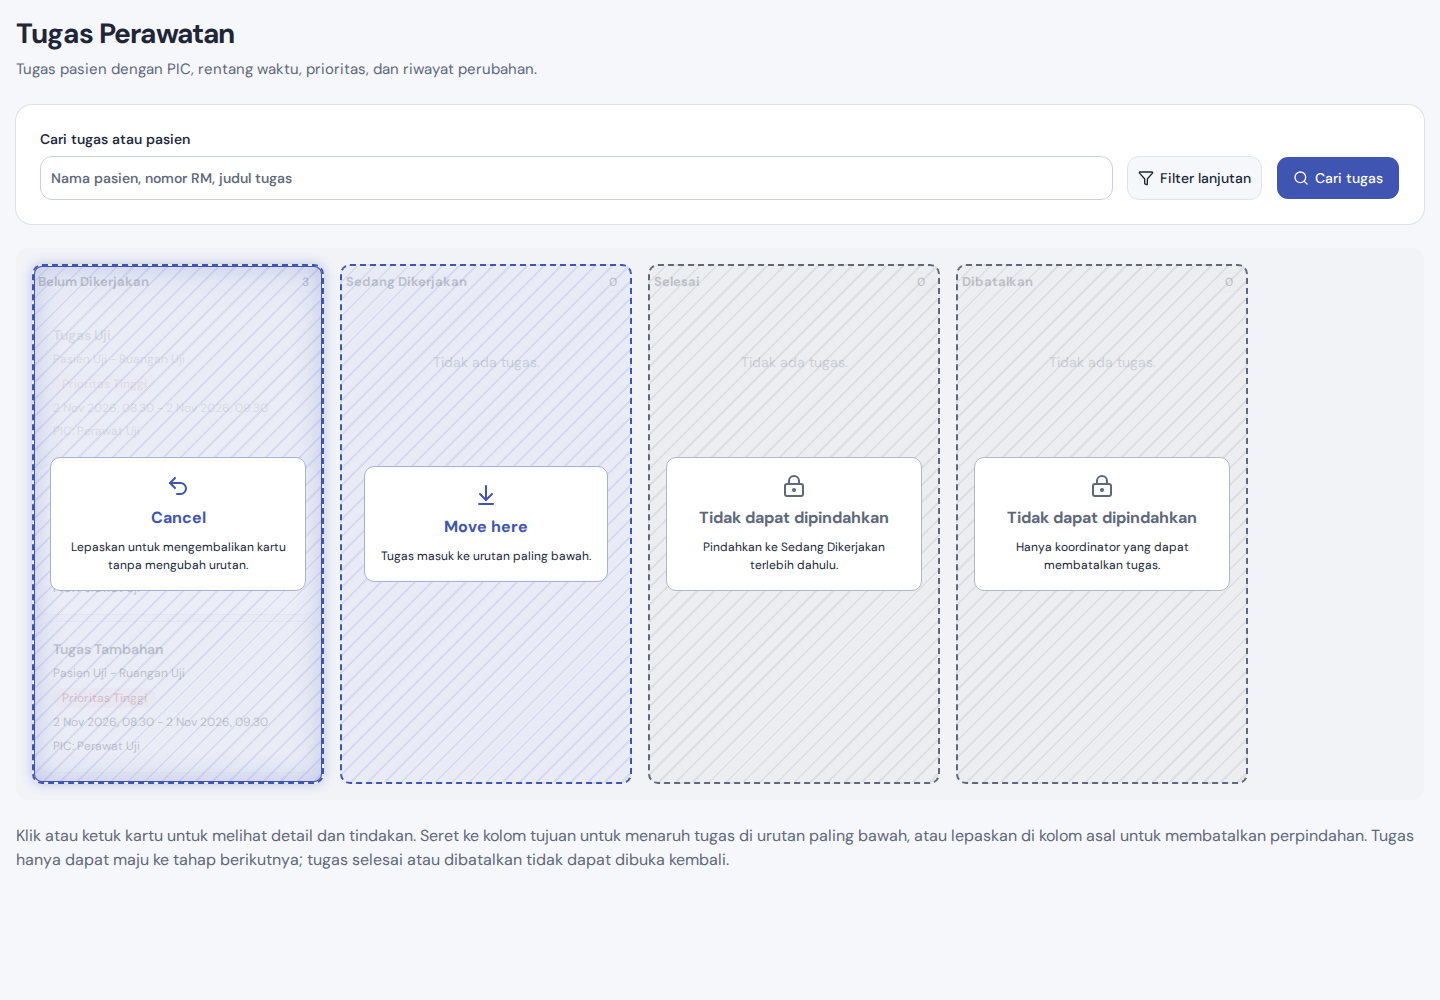
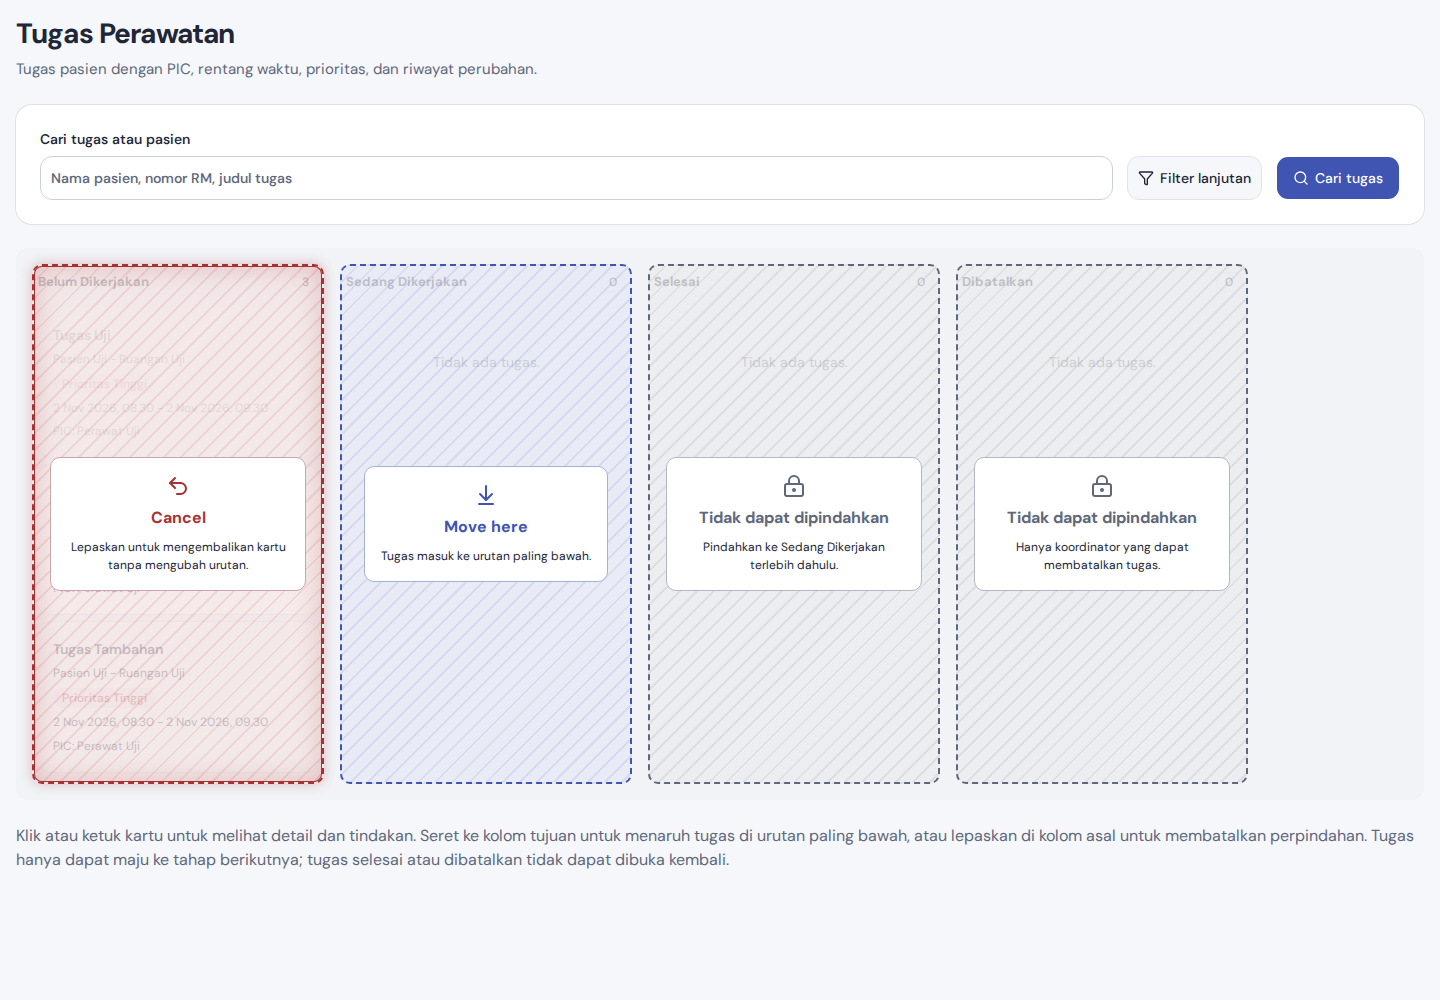
Use destructive theme color for source-column cancel overlay

Changed region(s): [[0.0, 0.248, 0.25, 0.806], [0.0938, 0.496, 0.1562, 0.527]]

diff --git a/apps/web/src/lib/features/tasks/presentation/TasksPage.svelte b/apps/web/src/lib/features/tasks/presentation/TasksPage.svelte
@@ -501,6 +501,7 @@ function local(value: string) { return new Date(value).toLocaleString('id-ID', {
 }
 .column-drop-overlay.active { box-shadow:inset 0 0 0 1px var(--drop-color), inset 0 0 28px color-mix(in srgb, var(--drop-color) 25%, transparent), 0 0 12px color-mix(in srgb, var(--drop-color) 30%, transparent); }
 .column-drop-overlay.locked { --drop-color:var(--muted-foreground); }
+.column-drop-overlay[data-drop-state="cancel"] { --drop-color:var(--destructive); }
 .drop-message { display:flex; flex-direction:column; align-items:center; gap:8px; max-width:100%; padding:16px; border:1px solid color-mix(in srgb, var(--drop-color) 35%, var(--border)); border-radius:10px; background:var(--card); color:var(--drop-color); text-align:center; overflow-wrap:anywhere; transition:transform 160ms cubic-bezier(.2,.8,.2,1); }
 .column-drop-overlay.active .drop-message { transform:translateY(-2px); }
 .drop-message strong { font-size:16px; }

diff --git a/docs/development/UI_COMPONENTS.md b/docs/development/UI_COMPONENTS.md
@@ -27,7 +27,7 @@ Import components from their own `index.js`, for example `$lib/shared/ui/button/
 - Date fields and filters use `FormDatePicker`, composed from registry Calendar and Popover. Date-time fields include a time input inside the popover. Keep date-only `YYYY-MM-DD` values and local date-time strings unchanged until the existing submission handler converts them; optional filters can be cleared, and required fields retain native form validation with visible error feedback.
 - The editable claim-result field uses Input with a registry Dropdown Menu for suggestions, preserving free typing alongside the suggested results. Swagger UI keeps its independent controls.
 - Every application action has a Lucide icon marked `aria-hidden="true"` beside its visible label. Use a matching action icon for conditional labels (for example, Eye to view details and X to close them). The standard Button target is 44px high; compact icon controls keep their dedicated icon sizes.
-- Each task card is one full-surface native button that opens details by click, tap, Enter or Space, with one Tab stop and a visible focus ring. Do not add separate Detail or Pindahkan buttons inside it; Pindahkan stays in the detail dialog for keyboard and touch users. Pending cards remain readable and expose their save status; the detail move action is disabled until the write settles. Movable cards gently compress on primary pointer press, then use a raised native drag image while the original stays dimmed in place. The drag image is removed after drop, cancellation, navigation or unmount, and reduced motion disables scaling, tilt and animated transitions. Whole-column striped overlays use `--primary` for allowed destinations, glowing only under the pointer, or `--muted-foreground` with a lock and an explanation for blocked destinations. The source column says **Cancel**: releasing anywhere in it makes no request and preserves order, even with filters active. Drops into another allowed column append to its end. The overlay sits outside the column's scroll area and never intercepts pointer events; the move dialog retains explicit position controls and cancellation reasons.
+- Each task card is one full-surface native button that opens details by click, tap, Enter or Space, with one Tab stop and a visible focus ring. Do not add separate Detail or Pindahkan buttons inside it; Pindahkan stays in the detail dialog for keyboard and touch users. Pending cards remain readable and expose their save status; the detail move action is disabled until the write settles. Movable cards gently compress on primary pointer press, then use a raised native drag image while the original stays dimmed in place. The drag image is removed after drop, cancellation, navigation or unmount, and reduced motion disables scaling, tilt and animated transitions. Whole-column striped overlays use `--primary` for allowed destinations, glowing only under the pointer, or `--muted-foreground` with a lock and an explanation for blocked destinations. The source column says **Cancel** with red stripes and hover glow from `--destructive`: releasing anywhere in it makes no request and preserves order, even with filters active. Drops into another allowed column append to its end. The overlay sits outside the column's scroll area and never intercepts pointer events; the move dialog retains explicit position controls and cancellation reasons.
 - Group sibling actions with `.action-buttons`: equal-width columns on larger screens, stacked full-width buttons on mobile. Add `.action-buttons--table` for table action columns or `.action-buttons--full` for a full-width group. Existing `.form-actions`, `.card-actions`, DialogFooter and AlertDialogFooter also give sibling buttons equal widths and allow long labels to wrap. Keep navigation, date controls and icon-only toolbar triggers in their existing layouts. Tables and the room schedule scroll inside their containers on narrow screens.
 - Badge variants carry status text as well as color. Never rely on color alone.
 - Controlled reason dialogs keep drafts on rejection and dismissal. Busy dialogs prevent dismissal and duplicate writes. Successful writes refresh server data; errors must not present unsaved changes as saved.

diff --git a/docs/validation/task-drag-feedback/README.md b/docs/validation/task-drag-feedback/README.md
@@ -2,7 +2,7 @@
 
 These captures use the real TasksPage component with synthetic task, patient and staff fixtures.
 
-- [Source column](cancel-desktop.png): **Cancel**, with the InpaCare primary color and hover glow. Releasing here keeps the original status and order without a request.
+- [Source column](cancel-desktop.png): **Cancel**, with red stripes and hover glow from the InpaCare `--destructive` token. Releasing here keeps the original status and order without a request.
 - [Destination column](destination-desktop.png): **Move here**, using `--primary`, while locked columns retain gray stripes and their explanations.
 - [Mobile source column](cancel-mobile.png): the Cancel message stays inside the horizontally scrolling board.
 
